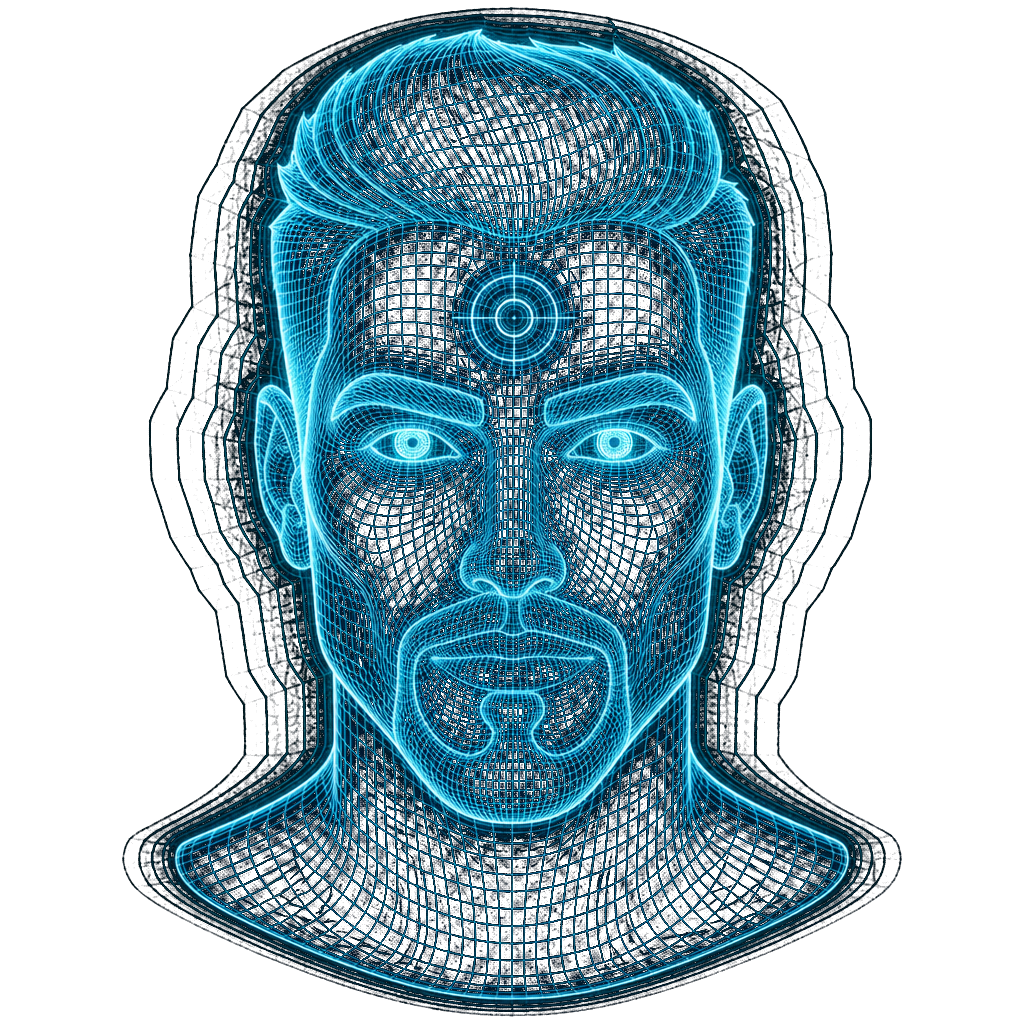
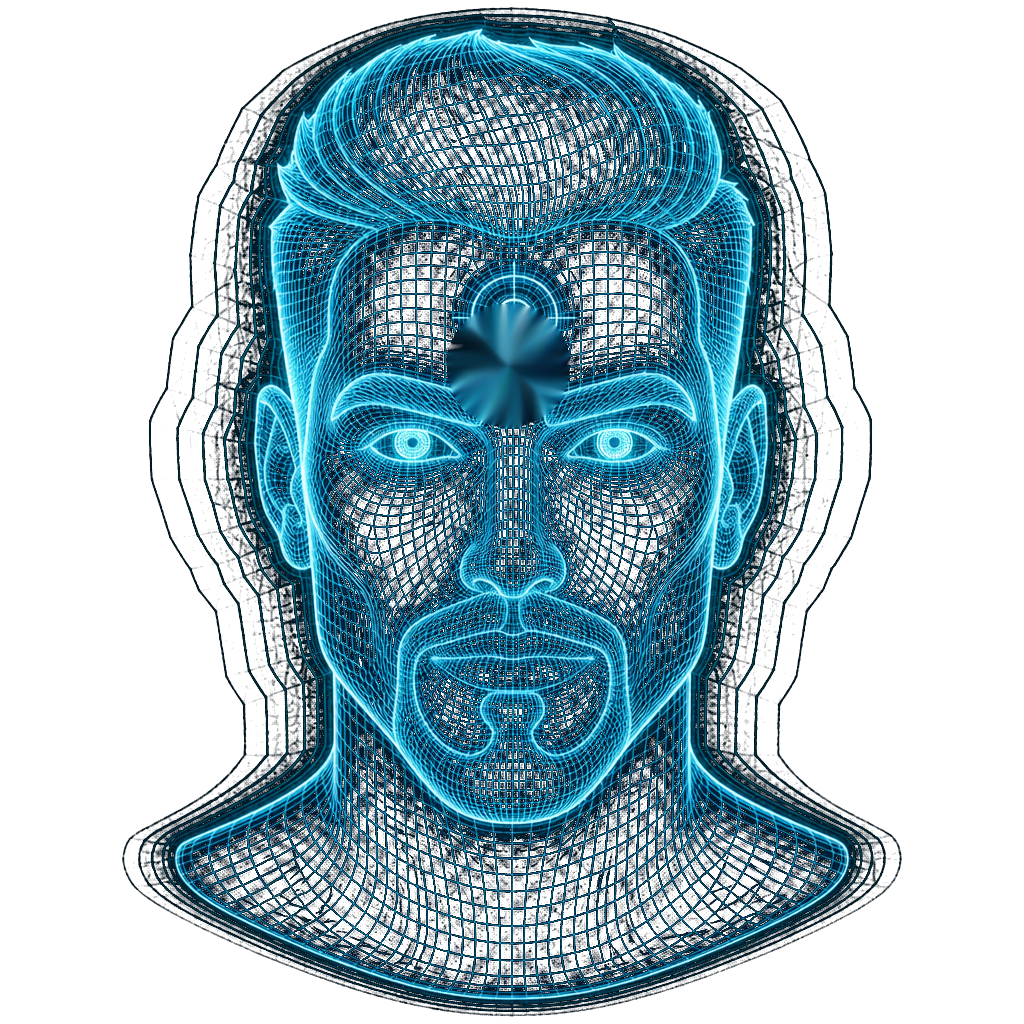
Move voice ripples to the mouth and place the CED mark on the chest.

Changed region(s): [[0.4375, 0.2812, 0.5625, 0.4375]]

diff --git a/apps/web/src/components/voice/CedHoloPresence.tsx b/apps/web/src/components/voice/CedHoloPresence.tsx
@@ -21,7 +21,7 @@ type Spark = {
   life: number;
 };
 
-const HOLO_SRC = "/voice/holo-presence.png?v=mesh";
+const HOLO_SRC = "/voice/holo-presence.png?v=mesh3";
 const FORM_DELAY = 0.45;
 const FORM_DURATION = 2.15;
 const formEase = [0.22, 0.84, 0.32, 1] as const;
@@ -100,10 +100,26 @@ function HoloFace({ speaking }: { speaking: boolean }) {
               ease: "linear",
             }}
           />
-          <div className="absolute left-1/2 top-[36%] z-[4] -translate-x-1/2 -translate-y-1/2">
+          <div
+            className="absolute left-1/2 top-[35.5%] z-[3] h-[2.75rem] w-[2.75rem] -translate-x-1/2 -translate-y-1/2 overflow-hidden rounded-full sm:h-12 sm:w-12"
+            style={{
+              background:
+                "radial-gradient(circle at 50% 38%, rgba(79,212,238,0.22), rgba(3,18,26,0.94) 68%)",
+              boxShadow: "inset 0 0 0 1px rgba(122,231,255,0.28)",
+            }}
+          >
+            <div
+              className="absolute inset-0 opacity-60"
+              style={{
+                backgroundImage:
+                  "repeating-linear-gradient(to bottom, rgba(79,212,238,0.4) 0px, rgba(79,212,238,0.4) 1px, transparent 1px, transparent 4px), repeating-linear-gradient(to right, rgba(79,212,238,0.28) 0px, rgba(79,212,238,0.28) 1px, transparent 1px, transparent 5px)",
+              }}
+            />
+          </div>
+          <div className="absolute left-1/2 top-[88%] z-[4] -translate-x-1/2 -translate-y-1/2">
             <motion.svg
               viewBox="0 0 64 78"
-              className="h-14 w-14 drop-shadow-[0_0_10px_rgba(122,231,255,0.95)] sm:h-16 sm:w-16"
+              className="h-11 w-11 drop-shadow-[0_0_10px_rgba(122,231,255,0.95)] sm:h-12 sm:w-12"
               animate={{ opacity: [0.85, 1, 0.85], scale: [1, 1.06, 1] }}
               transition={{ duration: 2.4, delay: formed, repeat: Infinity, ease: "easeInOut" }}
               aria-hidden
@@ -130,7 +146,7 @@ function HoloFace({ speaking }: { speaking: boolean }) {
             ? [0, 1, 2].map((i) => (
                 <motion.div
                   key={`voice-${i}`}
-                  className="absolute left-1/2 top-[56%] z-[3] h-6 w-16 -translate-x-1/2 -translate-y-1/2 rounded-full border border-[#7ae7ff]/70"
+                  className="absolute left-1/2 top-[68%] z-[3] h-5 w-[4.25rem] -translate-x-1/2 -translate-y-1/2 rounded-full border border-[#7ae7ff]/70"
                   initial={{ scale: 0.55, opacity: 0.7 }}
                   animate={{ scale: [0.55, 1.55], opacity: [0.7, 0] }}
                   transition={{
